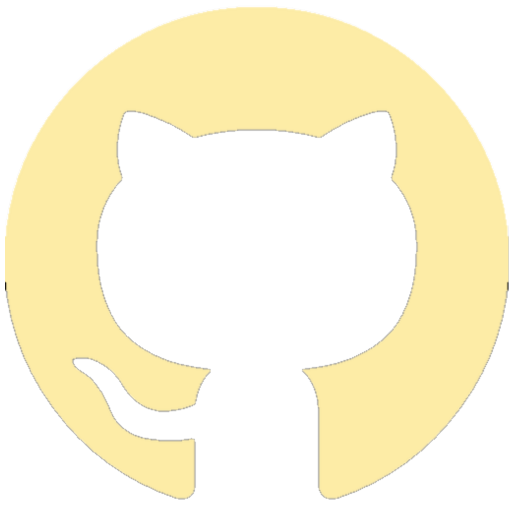
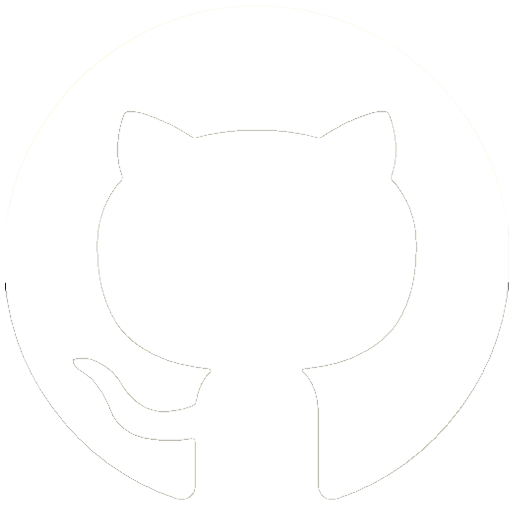
conception changed again, projects section in progress

diff --git a/src/Components/Style/Home.css b/src/Components/Style/Home.css
@@ -1,7 +1,6 @@
 body{
     margin: 0;
     overflow-x: hidden;
-    max-width: 1580px;
     width: 100%;
 }
 
@@ -56,6 +55,11 @@ li a:hover{
 
 #Accueil{
     height: 700px;
+    background-image: url('../../Assets/background.png');
+    background-repeat: no-repeat;
+    background-size: 100%;
+    background-position: center;
+    margin-top: 6%;
 }
 
 
@@ -63,23 +67,44 @@ li a:hover{
     display: flex;
     flex-direction: column;
     align-items: center;
-    margin-top: 10%;
+    padding-top: 10%;
 }
 
-.text-block img{
-    width: 360px;
-    height: 300px;
-    border-radius: 100%;
-
+.title-dev{
+    margin-bottom: 0;
 }
+
+.text-block p{
+    color: white;
+    font-size: 35px;
+    text-align: center;
+    width: 900px;
+    margin-top: 10px;
+}
+
+.icons{
+    display: flex;
+    justify-content: center;
+    gap:0;
+}
+
+.icons .github{
+    margin-right: 20px;
+}
+
+.icons .github img, .icons .linkedin img{
+    height: 70px;
+}
+
+
 
 @keyframes flicker-in-1{0%{opacity:0}10%{opacity:0}10.1%{opacity:1}10.2%{opacity:0}20%{opacity:0}20.1%{opacity:1}20.6%{opacity:0}30%{opacity:0}30.1%{opacity:1}30.5%{opacity:1}30.6%{opacity:0}45%{opacity:0}45.1%{opacity:1}50%{opacity:1}55%{opacity:1}55.1%{opacity:0}57%{opacity:0}57.1%{opacity:1}60%{opacity:1}60.1%{opacity:0}65%{opacity:0}65.1%{opacity:1}75%{opacity:1}75.1%{opacity:0}77%{opacity:0}77.1%{opacity:1}85%{opacity:1}85.1%{opacity:0}86%{opacity:0}86.1%{opacity:1}100%{opacity:1}}
 
 
 h1{
     text-align: center;
-    color: black;
-    font-size: 50px;
+    color: white;
+    font-size: 70px;
     font-family:Georgia, 'Times New Roman', Times, serif;
     margin-top: 0px;
 
@@ -101,26 +126,29 @@ h1{
   display: flex;
   flex-direction: column;
   align-items: center;
+  height: 700px;
 }
 
 #A-propos img{
-  width: 600px;
-  height: 600px;
-  margin: -234px 0 -195px 0;
+  width: 400px;
+  height: 400px;
+  border-radius: 100%;
 }
 
-#A-propos .blue-block{
-    background-color: rgba(3, 5, 245, 0.8);
-    color: white;
-    height: 550px;
+#A-propos .propos-block{
+    display: flex;
+    justify-content: center;
+    align-items: center;
+    gap: 10%;
+    color: black;
+    width: 80%;
 }
 
 #A-propos p{
-   width: 65%;
+   width: 45%;
    font-size: 25px;
    font-family: 'Gill Sans', 'Gill Sans MT', Calibri, 'Trebuchet MS', sans-serif;
-   text-align: center;
-   margin: 5% 17%; 
+   text-align:justify;
 }
 
 @keyframes sizing{
@@ -157,6 +185,8 @@ h1{
     display: flex;
     flex-direction: column;
     align-items: center;
+    background-color:rgba(3, 5, 245, 0.93);
+    padding-bottom: 5%;
 }
 
 .titre-2, .titre-3{
@@ -167,6 +197,7 @@ h1{
 
 .titre-3{ 
     padding-top: 30px;
+    color: white;
 }
 
 #Competences{
@@ -175,6 +206,7 @@ h1{
     box-shadow: 1px 1px 7px grey;
     border-radius: 30px;
     width: 70%;
+    background-color: white;
 }
 
 #Competences div{
@@ -245,6 +277,7 @@ footer h2{
 }
 
 .github{
+    z-index: 50;
     margin-right: 30%;
 }
 

diff --git a/src/Components/A-propos/index.jsx b/src/Components/A-propos/index.jsx
@@ -1,4 +1,5 @@
-import logoComputer from '../../Assets/logo-pc.png';
+import me from '../../Assets/me.png';
+
 
 function aPropos() {
 
@@ -6,22 +7,23 @@ return(
 
 <section id="A-propos">
 
-  <img src={logoComputer} alt="pc-logo"/>
+  
+  <h2 className='titre-2'> À propos de moi </h2>
 
-  <div class="blue-block">
+  <div class="propos-block">
 
-    <h2 className='titre-2'> À propos de moi </h2>
+    <img src={me} alt="pc-logo"/>
 
     <p>
 
-    Ma passion pour la création d'interfaces intuitives, d'outils innovants offrant des solutions 
-    utiles aux autres, ainsi que mon intérêt pour les nouvelles technologies, m'ont poussé à entreprendre 
-    une carrière de développeur web. 
-    Grâce aux formations que j'ai suivies pendant 4 ans, j'ai acquis des compétences dans plusieurs langages,
-    freameworks et j'ai expérimenté différents outils pour mettre en pratique mes connaissances. 
-    J'ai eu l'opportunité de mettre en pratique mes compétences lors d'un stage de 6 mois chez Youzer, 
-    une entreprise proposant une solution IAM, une application de rencontres CSP+ pour le fondateur de LesBigBoss,
-    ainsi que plusieurs autres projets disponibles sur mon profil GitHub.   
+      Ma passion pour la création d'interfaces intuitives, d'outils innovants offrant des solutions 
+      utiles aux autres, ainsi que mon intérêt pour les nouvelles technologies, m'ont poussé à entreprendre 
+      une carrière de développeur web.<br /> 
+      Grâce aux formations que j'ai suivies pendant 4 ans, j'ai acquis des compétences dans plusieurs langages,
+      freameworks et j'ai expérimenté différents outils pour mettre en pratique mes connaissances.<br /> 
+      J'ai eu l'opportunité de mettre en pratique mes compétences lors d'un stage de 6 mois chez Youzer, 
+      une entreprise proposant une solution IAM, une application de rencontres CSP+ pour le fondateur de LesBigBoss,
+      ainsi que plusieurs autres projets disponibles sur mon profil GitHub.   
       
     </p>
     

diff --git a/src/Components/Projets/index.jsx b/src/Components/Projets/index.jsx
@@ -1,34 +1,47 @@
 import { useState } from "react";
 import Right from '../../Assets/Vector-right.png'
 import Left from '../../Assets/Vector-left.png'
-function Projets({Datas ,index}){
+function Projets({Datas }){
 
-    const [currentIndex, setCurrentIndex] = useState(0);
+  //   const [currentIndex, setCurrentIndex] = useState(0);
    
-    const goForward = (i) =>{
+  //   const goForward = (i) =>{
 
-     const lastSlide = currentIndex === Datas.length - 1;
-     const newIndex= lastSlide ? 0 : currentIndex + 1;
-     setCurrentIndex(newIndex)
+  //    const lastSlide = currentIndex === Datas.length - 1;
+  //    const newIndex= lastSlide ? 0 : currentIndex + 1;
+  //    setCurrentIndex(newIndex)
 
-    };
+  //   };
 
-    const goBackward = (i) => {
-        const firstSlide = currentIndex === 0;
-        const newIndex= firstSlide ? Datas.length - 1 : currentIndex -1;
-        setCurrentIndex(newIndex)
+  //   const goBackward = (i) => {
+  //       const firstSlide = currentIndex === 0;
+  //       const newIndex= firstSlide ? Datas.length - 1 : currentIndex -1;
+  //       setCurrentIndex(newIndex)
 
         
-    }
-   console.log(index + 1)
+  //   }
 
-   index = currentIndex;
+  //  index = currentIndex;
+
 
 
 return(
- 
-  
-    <div key ={Datas.id} className="image-container" >
+
+      
+  <div>  
+  <ul>{  Datas.map((data)=>(
+    <li>
+      <div>{data.title}</div>
+      <div>
+        <img src={data.cover} alt ={data.title}/>
+        <p>{data.description}</p>
+      </div>
+    </li>
+  ))}</ul>
+
+  {/* <div key ={Datas.id} className="image-container" >
+      <ul>
+      </ul>
       <div className="slider">
         <img src = {Left} alt='vector-left' onClick= {()  => (goBackward(index))}  className='vector-left'/>
         
@@ -52,7 +65,8 @@ return(
        
      
 
-    </div>
+    </div> */}
+    </div> 
 
 )
 

diff --git a/src/Home.jsx b/src/Home.jsx
@@ -4,7 +4,8 @@ import APropos from "./Components/A-propos";
 import Projets from './Components/Projets';
 import {Datas} from './Datas/DataProjects';
 import Contact  from './Components/Contact';
-import me from './Assets/me.png';
+import github from './Assets/git-hub.png';
+import linkedin from './Assets/linkedin.png';
 import './Components/Style/Home.css';
 
 
@@ -23,14 +24,32 @@ function HomePage() {
 
         <div className="text-block">
           <h1> Manassé Mukenge</h1>
-          <h1>Développeur web fullstack</h1>
-          <img src={me} alt="pc-logo"/>
+          <h1 className="title-dev">Développeur web fullstack</h1>
+          <p> à la recherche d'un CDI sur Paris et le Val d'oise</p>
         </div>
 
+        <div className="icons">
+
+        <div  className='github'>
+            <a href ='https://github.com/Manadev5/' target="_blank" rel="noopener noreferrer">
+            <img src = {github} alt= 'github'/>
+            </a>
+          </div>
+
+          <div className='linkedin'>
+            <a href ='https://www.linkedin.com/in/manass%C3%A8-mukenge-29b5a6235?lipi=urn%3Ali%3Apage%3Ad_flagship3_profile_view_base_contact_details%3B6PGtiCbdTUyhIYzi33SWjg%3D%3D' target="_blank" rel="noopener noreferrer">
+            <img src = {linkedin} alt= 'linkedin'/>
+            </a>
+          </div>
+
+        </div>
+
+
+
       </section>
-    <APropos />
+      <APropos />
       
-    <Competences />
+      <Competences />
     
 
       <section id="projets">

diff --git a/src/Components/Contact/index.jsx b/src/Components/Contact/index.jsx
@@ -20,14 +20,14 @@ function contact(){
     </div>
 
     <div  className='github'>
-      <a href ='https://github.com/Manadev5/'>
+      <a href ='https://github.com/Manadev5/' target="_blank" rel="noopener noreferrer">
       <img src = {github} alt= 'github'/>
       <p>Github</p>
       </a>
     </div>
 
     <div className='linkedin'>
-      <a href ='https://www.linkedin.com/in/manass%C3%A8-mukenge-29b5a6235?lipi=urn%3Ali%3Apage%3Ad_flagship3_profile_view_base_contact_details%3B6PGtiCbdTUyhIYzi33SWjg%3D%3D'>
+      <a href ='https://www.linkedin.com/in/manass%C3%A8-mukenge-29b5a6235?lipi=urn%3Ali%3Apage%3Ad_flagship3_profile_view_base_contact_details%3B6PGtiCbdTUyhIYzi33SWjg%3D%3D' target="_blank" rel="noopener noreferrer">
       <img src = {linkedin} alt= 'linkedin'/>
       <p>Linkedin</p>
       </a>

diff --git a/src/Datas/DataProjects.js b/src/Datas/DataProjects.js
@@ -39,7 +39,7 @@ export const Datas  = [
     },
     {
         id :'2',
-        title : 'Potfolio architecte Sophie Bluel',
+        title : 'Portfolio architecte Sophie Bluel',
         cover : Sophscreen,
         images : [
               Sophmain,
